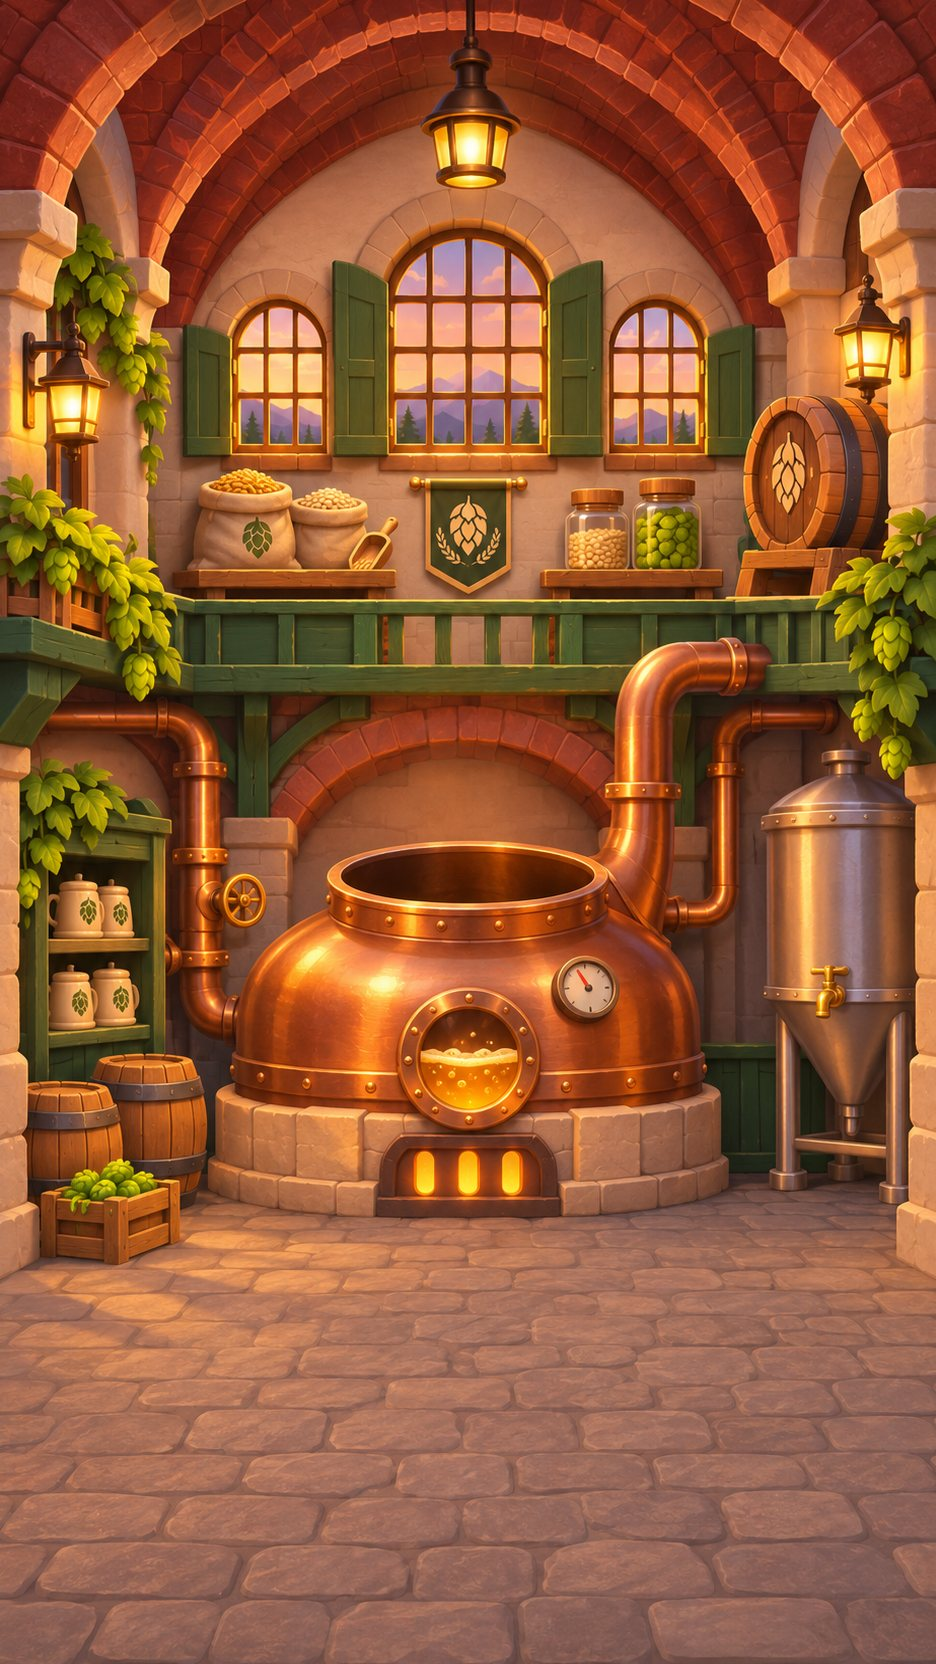
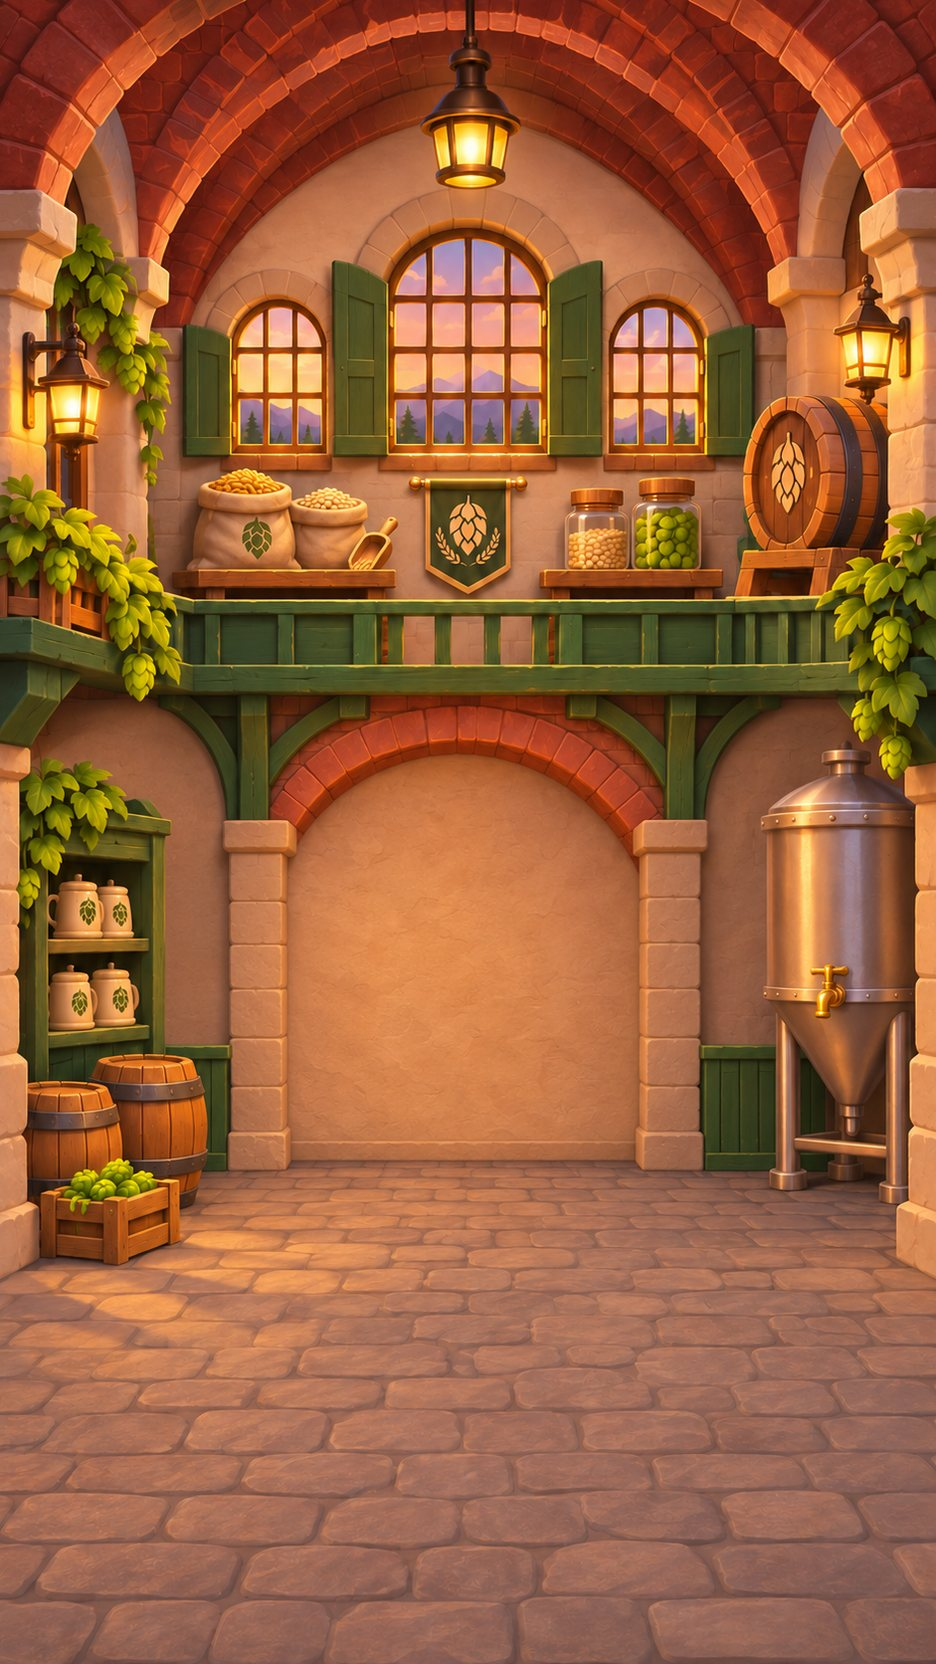
Maxi v2.5.0: Sudhaus-Kulisse ohne eigenen Kessel
Claude-Session: https://claude.ai/code/session_01Gkkh1fuzQ6mRC4TS1qKwA5

diff --git a/apps/maxi/index.html b/apps/maxi/index.html
@@ -4468,7 +4468,7 @@ let bg3 = document.createElement('canvas');
 function buildBg3(){
   bg3.width = cv.width; bg3.height = cv.height;
   const b = bg3.getContext('2d'); b.setTransform(dpr*S,0,0,dpr*S,dpr*OX,0);
-  if (rxOn() && RX.bg_sudhaus){ rxBg(b, 'bg_sudhaus'); b.fillStyle = 'rgba(20,14,10,.35)'; b.fillRect(XL, 0, XR - XL, H); return; }
+  if (rxOn() && RX.bg_sudhaus){ rxBg(b, 'bg_sudhaus'); b.fillStyle = 'rgba(20,14,10,.18)'; b.fillRect(XL, 0, XR - XL, H); return; }
   const floorY = H - 128;
   // warme Holzvertäfelung
   b.fillStyle = '#6b4a2e'; b.fillRect(XL, 0, XR-XL, floorY);
